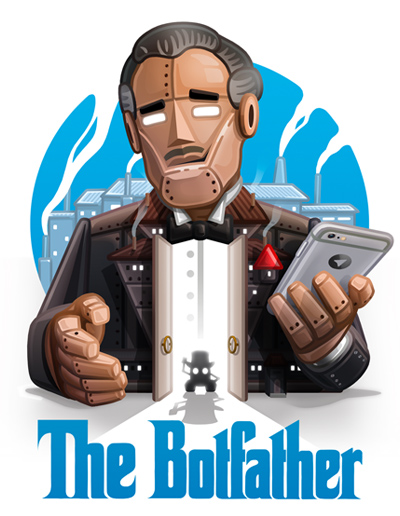
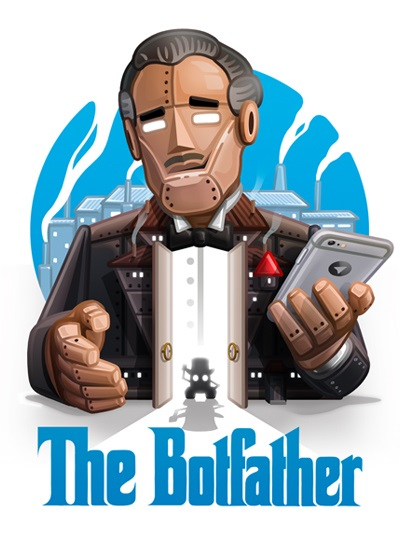
Try to style this markdown

diff --git a/README.md b/README.md
@@ -9,9 +9,11 @@ Fell free to make pull requests, fork, destroy or whatever you like most.
 
 Thanks also to https://www.flaticon.com/authors/turkkub for the awesome logo.
 
-<img src="https://raw.githubusercontent.com/rizlas/whereisit/master/images/t_logo.png" width="100" height="100" />
-<img src="https://raw.githubusercontent.com/rizlas/whereisit/master/images/bot_father.jpg" width="100" height="100" />
-<img src="https://raw.githubusercontent.com/rizlas/whereisit/master/images/inline_bots.jpg" width="100" height="100" />
-<img src="https://raw.githubusercontent.com/rizlas/whereisit/master/images/Tomtom_logo_250.jpg" width="100" height="100" />
-<img src="https://raw.githubusercontent.com/rizlas/whereisit/master/images/ptb-logo_240.png" width="100" height="100" />
-<img src="https://raw.githubusercontent.com/rizlas/whereisit/master/images/Heroku-01_280.png" width="100" height="100" />
+<div align="center">
+<img src="https://raw.githubusercontent.com/rizlas/whereisit/master/images/t_logo.png" width="50" height="50" />
+<img src="https://raw.githubusercontent.com/rizlas/whereisit/master/images/bot_father.jpg" width="50" height="68" />
+<img src="https://raw.githubusercontent.com/rizlas/whereisit/master/images/inline_bots.jpg" width="50" height="68" />
+<img src="https://raw.githubusercontent.com/rizlas/whereisit/master/images/Tomtom_logo_250.jpg" width="50" height="50" />
+<img src="https://raw.githubusercontent.com/rizlas/whereisit/master/images/ptb-logo_240.png" width="50" height="50" />
+<img src="https://raw.githubusercontent.com/rizlas/whereisit/master/images/Heroku-01_280.png" width="50" height="50" />
+</div>
